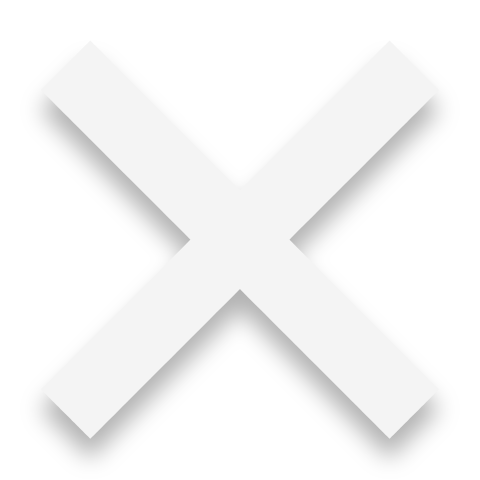
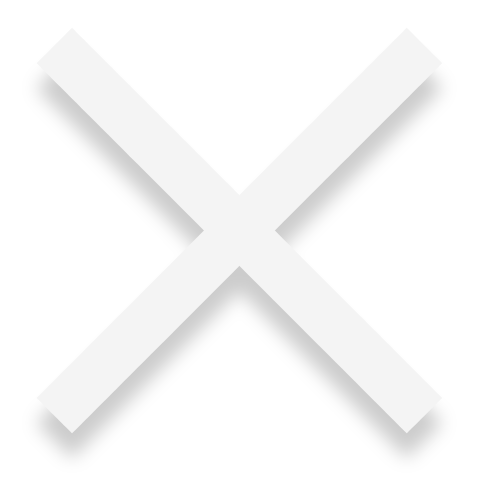
feat: show some more cards; add basic modal

Changed region(s): [[0.0938, 0.5625, 0.9062, 0.9688], [0.5625, 0.1562, 0.9062, 0.5312], [0.0938, 0.1562, 0.4375, 0.5312]]

diff --git a/screens/HomeScreen/RecyclableList.js b/screens/HomeScreen/RecyclableList.js
@@ -1,0 +1,67 @@
+import React, { useContext } from 'react';
+import { View, Image, Text, Pressable, StyleSheet, Dimensions } from 'react-native';
+
+import { ModalContext } from '../../contexts/ModalContext';
+import Modal from '../../components/Modal';
+import glassIcon from '../../assets/glass.png';
+import plasticIcon from '../../assets/plastic.png';
+import cardboardIcon from '../../assets/cardboard.png';
+
+const WINDOW_WIDTH = Dimensions.get('window').width;
+const CARDS_PER_LINE = 3;
+
+export default function RecyclableList() {
+  const openModal = useContext(ModalContext);
+  const modal = props => <Modal title="Glass" {...props} />;
+
+  return (
+    <View style={styles.container}>
+      <Text style={styles.label}>Recyclable materials</Text>
+      <View style={styles.list}>
+        <Pressable onPress={() => openModal(modal, { title: 'Glass' })}>
+          <View style={[styles.card, { backgroundColor: '#729bd5' }]}>
+            <Image source={glassIcon} style={styles.icon} />
+          </View>
+        </Pressable>
+        <Pressable onPress={() => openModal(modal, { title: 'Plastic' })}>
+          <View style={[styles.card, { backgroundColor: '#6ac9a7' }]}>
+            <Image source={plasticIcon} style={styles.icon} />
+          </View>
+        </Pressable>
+        <Pressable onPress={() => openModal(modal, { title: 'Cardboard' })}>
+          <View style={[styles.card, { backgroundColor: '#fce2a7' }]}>
+            <Image source={cardboardIcon} style={styles.icon} />
+          </View>
+        </Pressable>
+      </View>
+    </View>
+  );
+}
+
+const styles = StyleSheet.create({
+  card: {
+    alignItems: 'center',
+    borderRadius: 5,
+    flexDirection: 'row',
+    justifyContent: 'center',
+    height: (WINDOW_WIDTH / CARDS_PER_LINE) - (10 * CARDS_PER_LINE),
+    width: (WINDOW_WIDTH / CARDS_PER_LINE) - (10 * CARDS_PER_LINE),
+  },
+  container: {
+    flexDirection: 'column',
+    marginTop: 20,
+  },
+  icon: {
+    height: '80%',
+    width: '80%',
+  },
+  label: {
+    fontSize: 14,
+    fontWeight: 'bold',
+  },
+  list: {
+    flexDirection: 'row',
+    justifyContent: 'space-between',
+    marginTop: 20,
+  },
+});

diff --git a/components/Modal.js b/components/Modal.js
@@ -1,0 +1,66 @@
+import React, { useState, useEffect } from 'react';
+import { View, Image, Text, Pressable, Animated, StyleSheet, Dimensions } from 'react-native';
+
+import closeIcon from '../assets/close-red.png';
+
+const WINDOW_HEIGHT = Dimensions.get('window').height;
+const WINDOW_WIDTH = Dimensions.get('window').width;
+
+export default function Modal({ closeModal, children, title }) {
+  const [fade] = useState(new Animated.Value(0));
+
+  useEffect(() => {
+    Animated.timing(fade, {
+      toValue: 1,
+      duration: 250,
+      useNativeDriver: true
+    }).start();
+  }, []);
+
+  return (
+    <Animated.View style={[styles.background, { opacity: fade }]}>
+      <View style={styles.container}>
+        <Pressable onPress={closeModal}>
+          <Image source={closeIcon} style={styles.close} />
+          <Text style={styles.title}>{title}</Text>
+          <View styles={styles.children}>{children}</View>
+        </Pressable>
+      </View>
+    </Animated.View>
+  );
+}
+
+const styles = StyleSheet.create({
+  background: {
+    alignItems: 'center',
+    backgroundColor: 'rgba(0, 0, 0, 0.25)',
+    bottom: -200,
+    left: -200,
+    justifyContent: 'center',
+    position: 'absolute',
+    right: -200,
+    top: -200,
+    zIndex: 1,
+  },
+  children: {
+    margin: 20,
+  },
+  close: {
+    height: 34,
+    position: 'absolute',
+    right: -12,
+    width: 34,
+    top: -12,
+  },
+  container: {
+    backgroundColor: '#fff',
+    borderRadius: 10,
+    height: WINDOW_WIDTH - 130,
+    width: WINDOW_WIDTH - 130,
+  },
+  title: {
+    marginLeft: 25,
+    marginTop: 20,
+    fontSize: 18,
+  },
+});

diff --git a/screens/ScanScreen.js b/screens/ScanScreen.js
@@ -21,11 +21,11 @@ const CAMERA_SCREEN_OFFSET = (CAMERA_SCREEN_WIDTH - WINDOW_WIDTH) / 2;
 const RUN_EVERY_N_FRAMES = 90;
 
 export default function ScanScreen({ navigation }) {
-  const [prediction, setPrediction] = useState();
   const [hasCameraPermission, setHasCameraPermission] = useState();
-
-  const frame = useRef(0);
+  const [prediction, setPrediction] = useState();
   const mobilenetModel = useContext(ModelContext);
+  const frame = useRef(0);
+  const touchY = useRef();
 
   const handleCameraStream = images => {
     const loop = async () => {
@@ -79,7 +79,15 @@ export default function ScanScreen({ navigation }) {
   }
 
   return (
-    <SafeAreaView style={styles.container}>
+    <SafeAreaView
+      onTouchStart={e=> touchY.current = e.nativeEvent.pageY}
+      onTouchEnd={e => {
+        if (e.nativeEvent.pageY - touchY.current > 30) {
+          navigation.goBack();
+        }
+      }}
+      style={styles.container}
+    >
       <TensorCamera 
         autorender
         cameraTextureHeight={CAMERA_TEXTURE_HEIGHT}
@@ -113,8 +121,8 @@ const styles = StyleSheet.create({
     zIndex: 20,
   },
   closeIcon: {
-    height: 28,
-    width: 28,
+    height: 25,
+    width: 25,
   },
   camera: {
     height: CAMERA_SCREEN_HEIGHT,
@@ -125,7 +133,7 @@ const styles = StyleSheet.create({
   },
   container: {
     alignItems: 'center',
-    backgroundColor: '#f7f7f7',
+    backgroundColor: '#f4f4f4',
     flexDirection: 'column',
     height: '100%',
     justifyContent: 'center',

diff --git a/screens/HomeScreen/index.js b/screens/HomeScreen/index.js
@@ -2,21 +2,29 @@ import React from 'react';
 import { Text, Image,StyleSheet } from 'react-native';
 import { SafeAreaView } from 'react-native-safe-area-context';
 
+import { ModalProvider } from '../../contexts/ModalContext';
 import Profile from './Profile';
 import MainCard from './MainCard';
+import RecyclableList from './RecyclableList';
 
 export default function HomeScreen() {
   return (
     <SafeAreaView style={styles.container}>
-      <Profile points="4,800" />
-      <MainCard />
+      <ModalProvider>
+        <Profile points="4,800" />
+        <MainCard />
+        <RecyclableList />
+      </ModalProvider>
     </SafeAreaView>
   );
 }
 
 const styles = StyleSheet.create({
   container: {
-    backgroundColor: '#f7f7f7',
+    backgroundColor: '#f4f4f4',
     flex: 1,
+    marginLeft: 30,
+    marginRight: 30,
+    marginTop: 30,
   },
 });

diff --git a/screens/HomeScreen/MainCard.js b/screens/HomeScreen/MainCard.js
@@ -16,12 +16,18 @@ export default function MainCard({ points }) {
 
 const styles = StyleSheet.create({
   card: {
-    marginTop: 20,
-    marginLeft: 30,
+    backgroundColor: '#c6e8e5',
     borderRadius: 10,
+    marginTop: 20,
     height: 300,
-    backgroundColor: '#c0e5e2',
     width: WINDOW_WIDTH - 60,
+  },
+  image: {
+    position: 'absolute',
+    bottom: 15,
+    right: 2,
+    height: 200,
+    width: 200,
   },
   text: {
     fontFamily: 'RobotoSlab',
@@ -30,11 +36,4 @@ const styles = StyleSheet.create({
     marginTop: 20,
     width: '55%',
   },
-  image: {
-    position: 'absolute',
-    bottom: 15,
-    right: 2,
-    height: 200,
-    width: 200,
-  }
 });

diff --git a/contexts/ModalContext.js b/contexts/ModalContext.js
@@ -1,0 +1,23 @@
+import React, { createContext, useState } from 'react';
+import PropTypes from 'prop-types';
+
+const ModalContext = createContext();
+
+const ModalProvider = ({ children }) => {
+  const [modal, setModal] = useState(null);
+  const closeModal = () => setModal(null);
+  const openModal = (render, props) => setModal(render({ closeModal, ...props }));
+
+  return (
+    <ModalContext.Provider value={openModal}>
+      {children}
+      {modal}
+    </ModalContext.Provider>
+  );
+};
+
+ModalProvider.propTypes = {
+  children: PropTypes.oneOfType([PropTypes.arrayOf(PropTypes.node), PropTypes.node]).isRequired,
+};
+
+export { ModalContext, ModalProvider };

diff --git a/screens/HomeScreen/Profile.js b/screens/HomeScreen/Profile.js
@@ -18,8 +18,6 @@ const styles = StyleSheet.create({
   container: {
     flexDirection: 'row',
     alignItems: 'center',
-    marginTop: 30,
-    marginLeft: 30,
   },
   profileIcon: {
     height: 32,
@@ -28,5 +26,5 @@ const styles = StyleSheet.create({
   },
   points: {
     fontSize: 13,
-  }
+  },
 });

diff --git a/navigation/Navigation.js b/navigation/Navigation.js
@@ -48,7 +48,7 @@ function BottomTabNavigator() {
         tabBarShowLabel: false,
         tabBarShowIcon: true,
         tabBarStyle: {
-          backgroundColor: '#f7f7f7',
+          backgroundColor: '#f4f4f4',
           borderTopWidth: 0,
           height: 120,
           marginBottom: 0,

diff --git a/screens/LocationScreen.js b/screens/LocationScreen.js
@@ -12,7 +12,7 @@ export default function LocationScreen() {
 const styles = StyleSheet.create({
   container: {
     alignItems: 'center',
-    backgroundColor: '#f7f7f7',
+    backgroundColor: '#f4f4f4',
     flex: 1,
     justifyContent: 'center',
   },
